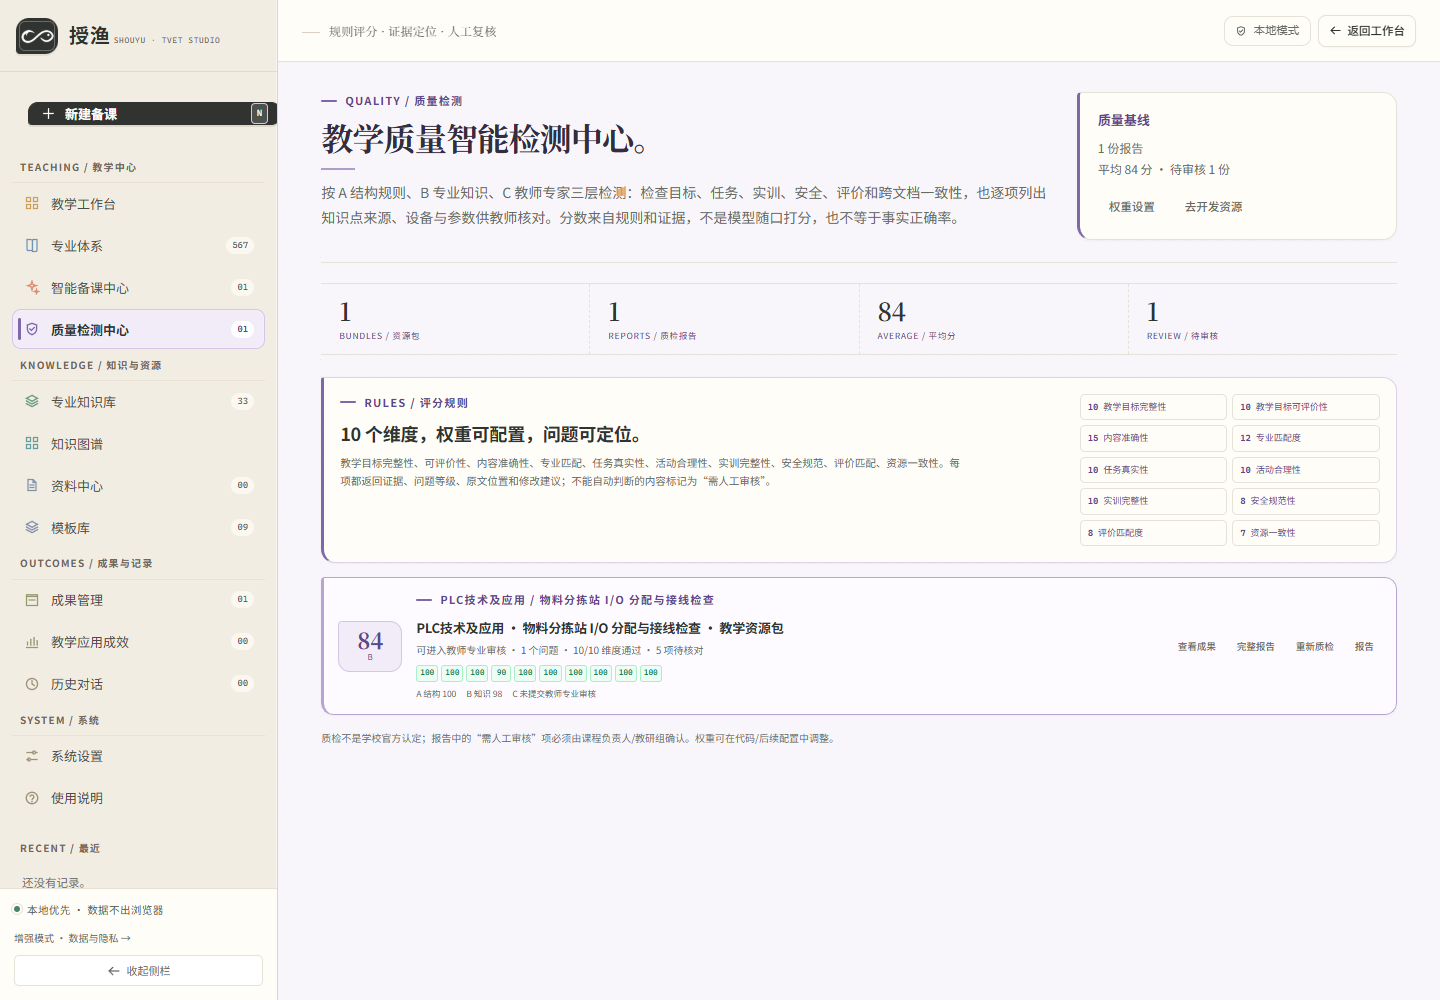
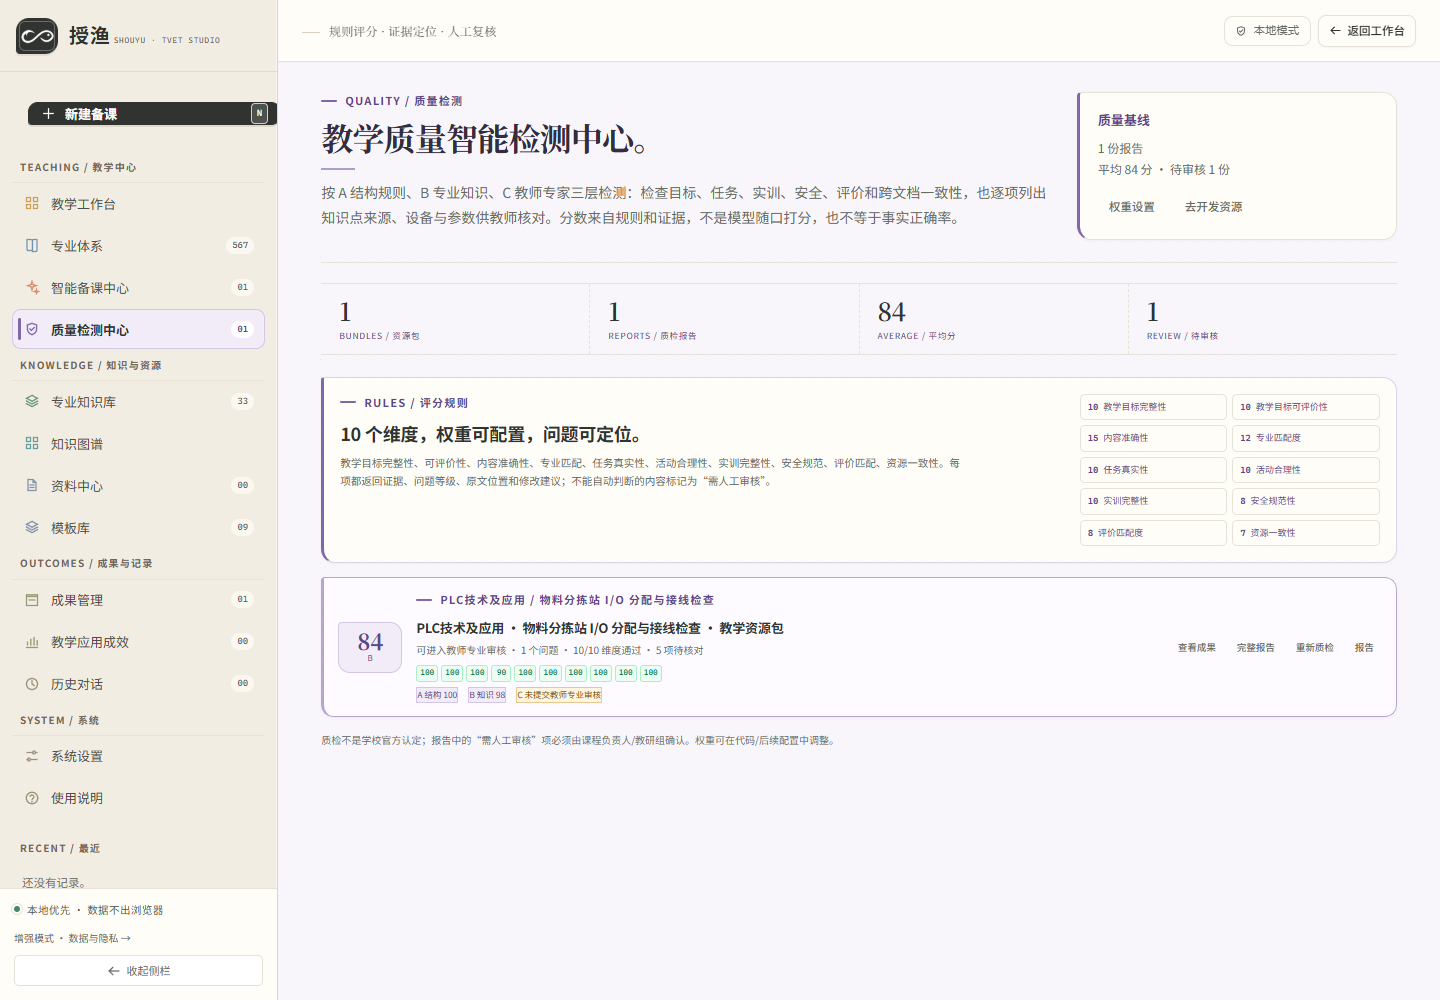
fix: clarify quality status colors in report cards

Changed region(s): [[0.2188, 0.682, 0.5938, 0.744], [0.8125, 0.62, 0.9375, 0.651], [0.25, 0.62, 0.2812, 0.651]]

diff --git a/assets/brand-theme.css b/assets/brand-theme.css
@@ -1275,8 +1275,22 @@ textarea:focus {
   background: #f7f3fb;
 }
 
-.quality-report-layers .is-approved {
+.quality-report-layers span {
+  border: 1px solid #d4c6e6;
+  background: #f1ecf8;
+  color: #5e4789;
+}
+
+.quality-report-layers span.is-approved {
+  border-color: #bfd9cb;
   background: #edf5ef;
+  color: #2f6b4f;
+}
+
+.quality-report-layers span:last-child:not(.is-approved) {
+  border-color: #e8c98d;
+  background: #fff4df;
+  color: #815514;
 }
 
 /* ---------- Graph: explorable atlas ---------- */
